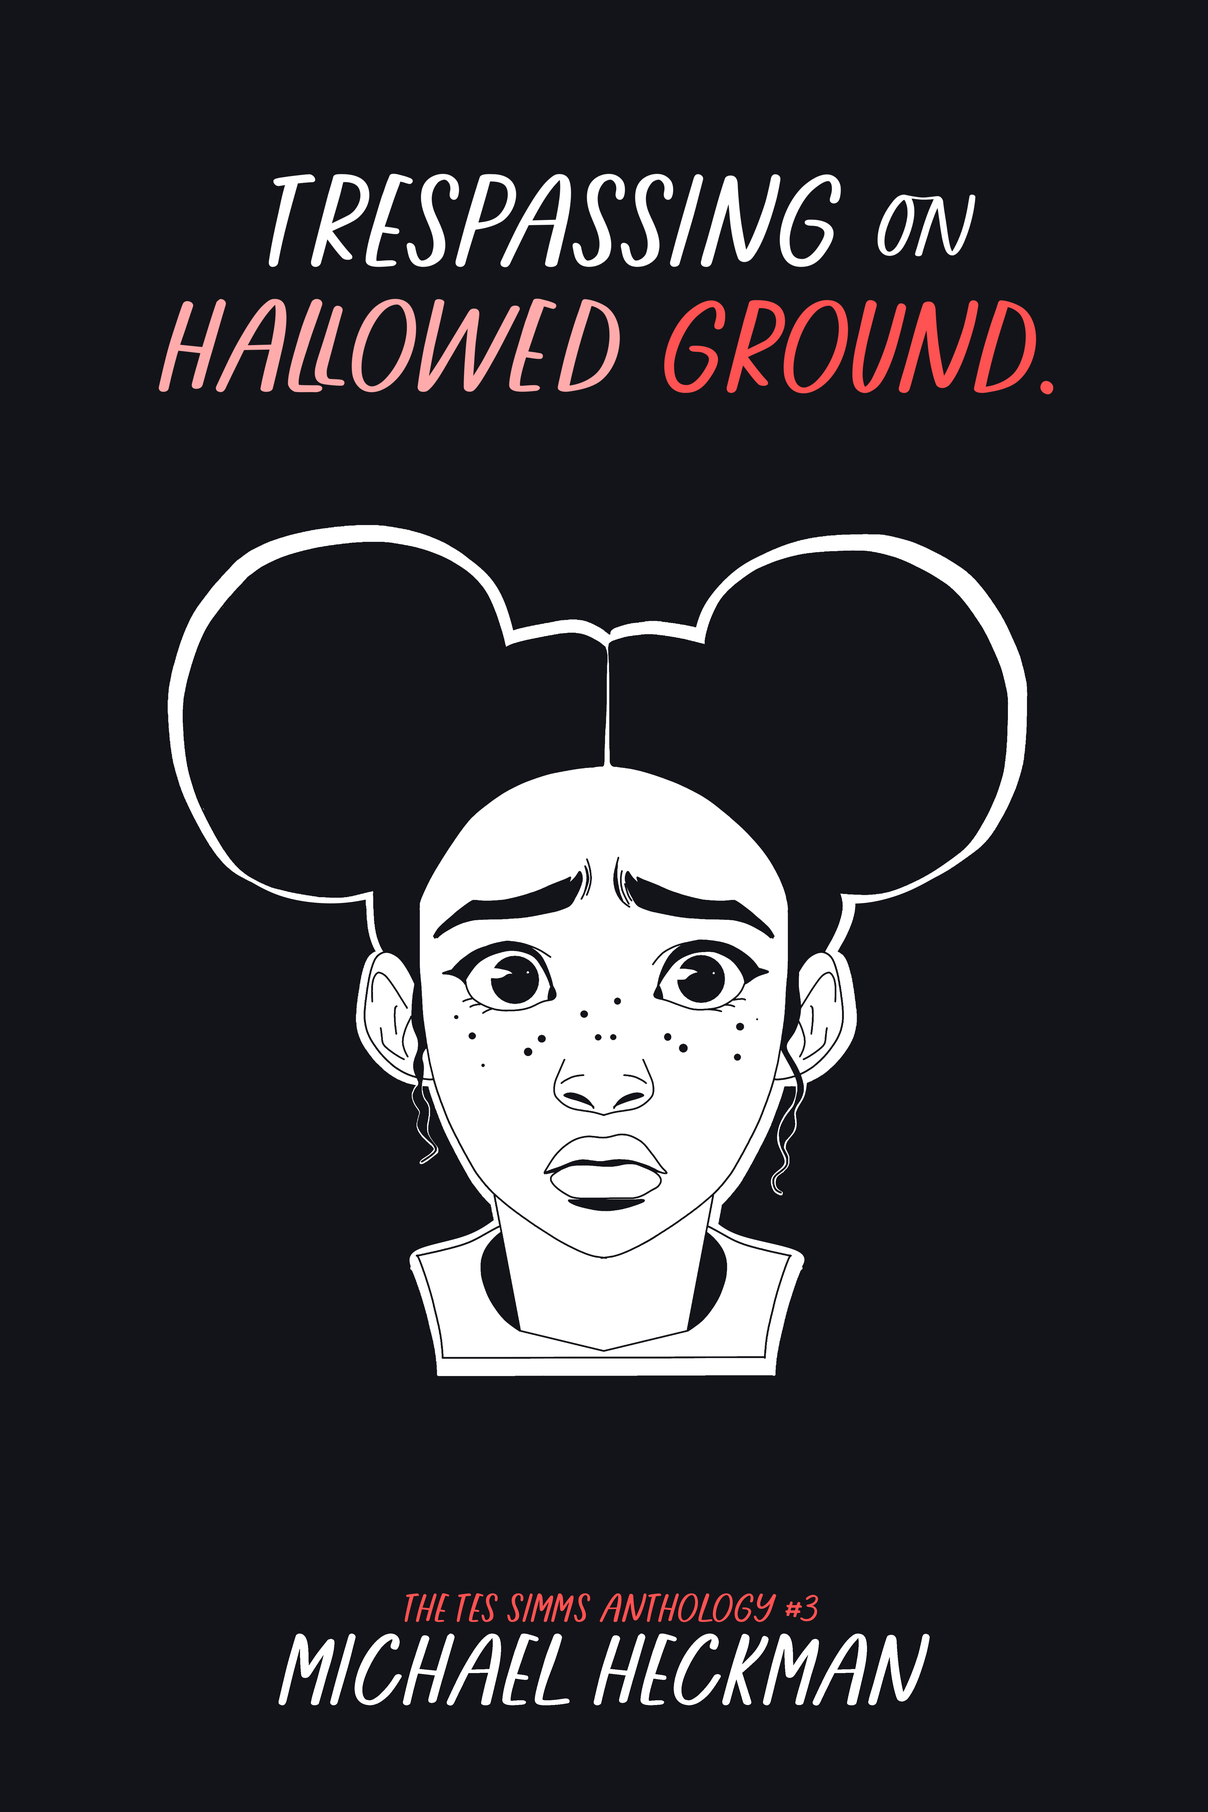
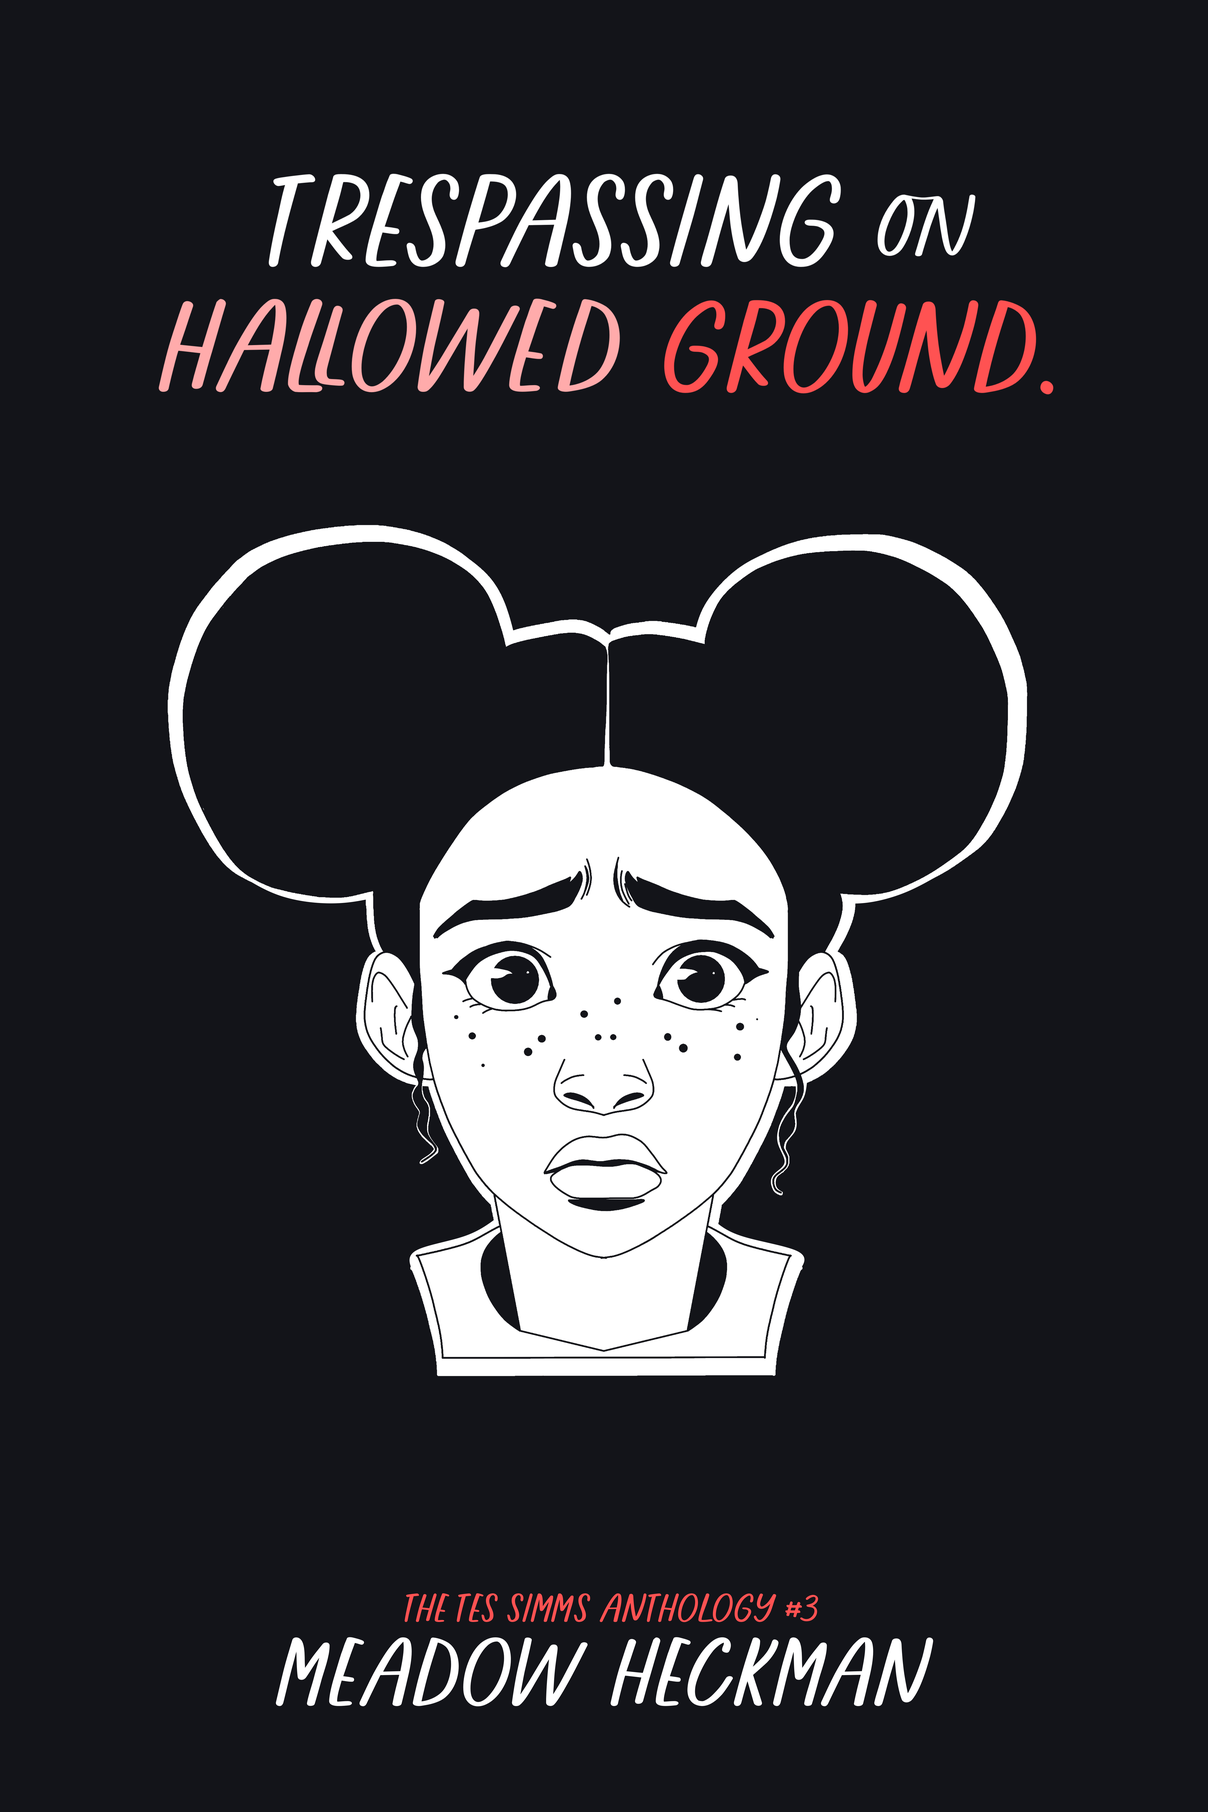
more meadow shift

Changed region(s): [[0.2188, 0.9062, 0.7812, 0.9375]]

diff --git a/index.html b/index.html
@@ -83,35 +83,35 @@
                 <a class="book-clickable" href="luna">
                     <div class="book unread">
                         <div class="cover">
-                            <img title="Luna on the Run" src="https://msheckman.com/book-cover/luna-on-the-run.png">
+                            <img title="Luna on the Run" src="https://msheckman.com/book-cover/luna-on-the-run.jpg">
                         </div>
                     </div>
                 </a>
                 <a class="book-clickable" href="the-blood-moon-pirate">
                     <div class="book new">
                         <div class="cover">
-                            <img title="The Blood Moon Pirate" src="https://msheckman.com/book-cover/the-blood-moon-pirate.png">
+                            <img title="The Blood Moon Pirate" src="https://msheckman.com/book-cover/the-blood-moon-pirate.jpg">
                         </div>
                     </div>
                 </a>
                 <a class="book-clickable" href="orion-and-the-clockwork/">
                     <div class="book new">
                         <div class="cover">
-                            <img title="Orion and the Clockwork" src="https://msheckman.com/book-cover/orion-and-the-clockwork.png">
+                            <img title="Orion and the Clockwork" src="https://msheckman.com/book-cover/orion-and-the-clockwork.jpg">
                         </div>
                     </div>
                 </a>
                 <a class="book-clickable" href="the-steam-war">
                     <div class="book read">
                         <div class="cover">
-                            <img title="The Steam War" src="https://msheckman.com/book-cover/the-steam-war.png">
+                            <img title="The Steam War" src="https://msheckman.com/book-cover/the-steam-war.jpg">
                         </div>
                     </div>
                 </a>
                 <a class="book-clickable" href="the-brass-dove">
                     <div class="book new">
                         <div class="cover">
-                            <img title="The Brass Dove" src="https://msheckman.com/book-cover/the-brass-dove.png">
+                            <img title="The Brass Dove" src="https://msheckman.com/book-cover/the-brass-dove.jpg">
                         </div>
                     </div>
                 </a>
@@ -151,18 +151,18 @@
     </div>
 
     <div class="strips">
-        <div class="light-strip">
+        <div class="dark-strip">
             <h1>Portfolio</h1>
             <p>Visit my portfolio of projects, including coding projects, books, and more.</p>
             <img src="index/portfolio.png" alt="Portfolio Picture">
             <button type="button" onclick="window.location='portfolio'">VIEW</button>
         </div>
-        <div class="dark-strip">
+        <!-- <div class="dark-strip">
             <h1>Résumé</h1>
             <p>Read or download my résumé.</p>
-            <img src="index/good me.webp" alt="Resume Picture">
+            <img src="index/pfp square.png" alt="Resume Picture">
             <button type="button" onclick="window.location='resume'">VIEW</button>
-        </div>
+        </div> -->
         <div class="light-strip">
             <h1>Blog</h1>
             <p>Visit the blog, where you can stay updated on projects of all sorts.</p>

diff --git a/books/index.html b/books/index.html
@@ -67,11 +67,11 @@
             <div class="collection-steam" id="steam-war">
                 <h3 class="collection-header">THE STEAM WAR SERIES</h3>
                 <div class="book steam">
-                    <a rel="noopener" href="../the-steam-war"><img src="https://msheckman.com/book-cover/the-steam-war.png" alt="The Steam War" class="cover display-a"></a>
+                    <a rel="noopener" href="../the-steam-war"><img src="https://msheckman.com/book-cover/the-steam-war.jpg" alt="The Steam War" class="cover display-a"></a>
                     <img src="drop-shadow.png"alt="Book cover drop shadow" class="shadow">
                 </div>
                 <div class="book dove">
-                    <a rel="noopener" href="../the-brass-dove"><img src="https://msheckman.com/book-cover/the-brass-dove.png" alt="The Brass Dove" class="cover display-a"></a>
+                    <a rel="noopener" href="../the-brass-dove"><img src="https://msheckman.com/book-cover/the-brass-dove.jpg" alt="The Brass Dove" class="cover display-a"></a>
                     <img src="drop-shadow.png"alt="Book cover drop shadow" class="shadow">
                 </div>
                 <div class="book renegades">
@@ -83,15 +83,15 @@
             <div class="collection-vigilantes" id="vigilantes">
                 <h3 class="collection-header">The Carmsborough Vigilantes Series</h3>
                 <div class="book luna">
-                    <a rel="noopener" href="../luna"><img src="https://msheckman.com/book-cover/luna-on-the-run.png" alt="Luna on the Run" class="cover display-a"></a>
+                    <a rel="noopener" href="../luna"><img src="https://msheckman.com/book-cover/luna-on-the-run.jpg" alt="Luna on the Run" class="cover display-a"></a>
                     <img src="drop-shadow.png"alt="Book cover drop shadow" class="shadow">
                 </div>
                 <div class="book pirate">
-                    <a rel="noopener" href="../the-blood-moon-pirate"><img src="https://msheckman.com/book-cover/the-blood-moon-pirate.png" alt="The Blood Moon Pirate" class="cover display-a"></a>
+                    <a rel="noopener" href="../the-blood-moon-pirate"><img src="https://msheckman.com/book-cover/the-blood-moon-pirate.jpg" alt="The Blood Moon Pirate" class="cover display-a"></a>
                     <img src="drop-shadow.png"alt="Book cover drop shadow" class="shadow">
                 </div>
                 <div class="book orion">
-                    <a rel="noopener" href="../orion-and-the-clockwork"><img src="https://msheckman.com/book-cover/orion-and-the-clockwork.png" alt="Orion and the Clockwork" class="cover display-a"></a>
+                    <a rel="noopener" href="../orion-and-the-clockwork"><img src="https://msheckman.com/book-cover/orion-and-the-clockwork.jpg" alt="Orion and the Clockwork" class="cover display-a"></a>
                     <img src="drop-shadow.png"alt="Book cover drop shadow" class="shadow">
                 </div>
                 <div class="book apprentice">

diff --git a/the-carmsborough-vigilantes/index.html b/the-carmsborough-vigilantes/index.html
@@ -73,15 +73,15 @@
                 <a href="#" class="chronological" onclick="reorder('chronological')"><i class="fa fa-th-large" aria-hidden="true"></i> Chronological Order</a>
                 <div class="bookviewer">
                     <div class="book luna" id="luna">
-                        <a rel="noopener" href="../luna"><img src="https://msheckman.com/book-cover/luna-on-the-run.png" alt="Luna on the Run" class="cover display-a"></a>
+                        <a rel="noopener" href="../luna"><img src="https://msheckman.com/book-cover/luna-on-the-run.jpg" alt="Luna on the Run" class="cover display-a"></a>
                         <p class="blurb">"Beggars can't be choosers, But I'm done begging." Follow the story of Luna, a homeless teen with skewed morals, as she and her mechanical cat Freckles struggle to live a normal, problem-free life that keeps getting interrupted by bad men with bad plans. Read #lunaontherun completely free online.</p>
                     </div>
                     <div class="book pirate" id="pirate">
-                        <a rel="noopener" href="../the-blood-moon-pirate"><img src="https://msheckman.com/book-cover/the-blood-moon-pirate.png" alt="The Blood Moon Pirate" class="cover display-a"></a>
+                        <a rel="noopener" href="../the-blood-moon-pirate"><img src="https://msheckman.com/book-cover/the-blood-moon-pirate.jpg" alt="The Blood Moon Pirate" class="cover display-a"></a>
                         <p class="blurb">Sometime after the events of Luna on the Run, Luna and her mechanical cat Freckles have taken up the role of vigilantism in Carmsborough, looking to rid it of the mob boss Bijabers' influence. Despite her noble cause, her unconventional ways and distressed morals bring her many opponents, like S6, a secret American government organization, and the other vigilante duo of Carmsborough: Orion and the Clockwork. Now Luna must race the clock and remain anonymous while cleaning up the streets of Carmsborough under her threatening new alias: The Blood Moon Pirate.</p>
                     </div>
                     <div class="book orion" id="orion">
-                        <a rel="noopener" href="../orion-and-the-clockwork"><img src="https://msheckman.com/book-cover/orion-and-the-clockwork.png" alt="Orion and the Clockwork" class="cover display-a"></a>
+                        <a rel="noopener" href="../orion-and-the-clockwork"><img src="https://msheckman.com/book-cover/orion-and-the-clockwork.jpg" alt="Orion and the Clockwork" class="cover display-a"></a>
                         <p class="blurb">Orion has been chosen to be protected by the Clockwork, a seemingly indestructible metal golem designed to guard him at all costs.
                             <br/><br/>
                             He did not sign up for this.

diff --git a/orion-and-the-clockwork/index.html b/orion-and-the-clockwork/index.html
@@ -76,7 +76,7 @@
 
         <div class="strips">
             <div class="book">
-                <img id="book" src="https://msheckman.com/book-cover/orion-and-the-clockwork.png" alt="Orion and the Clockwork">
+                <img id="book" src="https://msheckman.com/book-cover/orion-and-the-clockwork.jpg" alt="Orion and the Clockwork">
                 <p id="book-description-1">Orion has been chosen to be protected by the Clockwork, a seemingly indestructible metal golem designed to guard him at all costs. </p>
                 <p id="book-description-2">He did not sign up for this.</p>
                 <p id="book-description-3">Add to the fact that a man named Syndra has taken over the country and wants to kill him and steal the Clockwork, and his relationship with Rami, a boy from the countryside, is cut abruptly short because of it, and Orion finds himself wishing the mysterious machine had never chosen him to begin with.</p>
@@ -89,8 +89,8 @@
             <div class="about-the-author">
                 <h1 id="about-title">About the Author</h1>
                 <div class="underline"></div>
-                <p id="about">Meadow has always had a love for writing that stems from writing a short story about turtles on his family computer in second grade. From there, he never stopped writing, and wrote his first ten-thousand-word book in the third grade, igniting his passion for storytelling.<br/><br/>Now, the only thing stopping Meadow from writing more is his schedule. Ideas like <em>Orion and the Clockwork</em> and the <em>Steam War</em> series keep him up at night, plotting his creative path forward.</p>
-                <img id="about-the-author" src="me.jpg" alt="Me">
+                <p id="about">Meadow has always had a love for writing that stems from writing a short story about turtles on her family computer in second grade. From there, she never stopped writing, and wrote her first ten-thousand-word book in the third grade, igniting her passion for storytelling.<br/><br/>Now, the only thing stopping Meadow from writing more is her schedule. Ideas like <em>Orion and the Clockwork</em> and the <em>Steam War</em> series keep her up at night, plotting her creative path forward.</p>
+                <img id="about-the-author" src="../index/pfp square.png" alt="Me">
             </div>
             <div class="farm">
                 

diff --git a/the-brass-dove/index.html b/the-brass-dove/index.html
@@ -66,7 +66,7 @@
 
         <div class="strips">
             <div class="book">
-                <img id="book" src="https://msheckman.com/book-cover/the-brass-dove.png" alt="The Brass Dove">
+                <img id="book" src="https://msheckman.com/book-cover/the-brass-dove.jpg" alt="The Brass Dove">
                 <h1 id="available-now">Meadow Heckman's <br /><p class="emphasis">THE BRASS DOVE</p></h1>
                 <p id="secrets">"War is not a man's sport. War is no sport at all."</p>
                 <div class="book-socials">
@@ -82,8 +82,8 @@
             <div class="about-the-author">
                 <h1 id="about-title">About the Author</h1>
                 <div class="underline"></div>
-                <p id="about">Meadow has always had a love for writing that stems from writing a short story about turtles on his family computer in second grade. From there, he never stopped writing, and wrote his first ten-thousand-word book in the third grade, igniting his passion for storytelling.<br/><br/>Now, the only thing stopping Meadow from writing more is his schedule. Ideas like <em>Luna on the Run</em> and <em>The Brass Dove</em> keep him up at night, plotting his creative path forward.</p>
-                <img id="about-the-author" src="me.jpg" alt="Me">
+                <p id="about">Meadow has always had a love for writing that stems from writing a short story about turtles on her family computer in second grade. From there, she never stopped writing, and wrote her first ten-thousand-word book in the third grade, igniting her passion for storytelling.<br/><br/>Now, the only thing stopping Meadow from writing more is her schedule. Ideas like <em>Orion and the Clockwork</em> and the <em>Steam War</em> series keep her up at night, plotting her creative path forward.</p>
+                <img id="about-the-author" src="../index/pfp square.png" alt="Me">
             </div>
             <div class="reviews">
                 <h1 id="reviews">Praise for <em>The Steam War</em></h1>

diff --git a/the-steam-war-series/index.html b/the-steam-war-series/index.html
@@ -68,11 +68,11 @@
                 <h3 class="collection-header">THE STEAM WAR SERIES</h3>
                 <div class="bookviewer">
                     <div class="book steam">
-                        <a rel="noopener" href="../the-steam-war"><img src="https://msheckman.com/book-cover/the-steam-war.png" alt="The Steam War" class="cover display-a"></a>
+                        <a rel="noopener" href="../the-steam-war"><img src="https://msheckman.com/book-cover/the-steam-war.jpg" alt="The Steam War" class="cover display-a"></a>
                         <p class="blurb">"Secrets don't keep once they're airborne."<br/><br/>On board the <em>Globetrotter</em>, a steampunk flight school for aspiring airship crews, Cog and her closest friends gear up for their third year of classes. But when a mysterious transfer student threatens to rock the boat and expose Cog’s hazy past, a global war looms over President Jimmy Carter’s historic press conference, and a jealous love triangle endangers her friendships, their school year promises to be anything but normal.</p>
                     </div>
                     <div class="book dove">
-                        <a rel="noopener" href="../the-brass-dove"><img src="https://msheckman.com/book-cover/the-brass-dove.png" alt="The Brass Dove" class="cover display-a"></a>
+                        <a rel="noopener" href="../the-brass-dove"><img src="https://msheckman.com/book-cover/the-brass-dove.jpg" alt="The Brass Dove" class="cover display-a"></a>
                         <p class="blurb">"War is not a man's sport. War is no sport at all."<br/><br/>After a surprise reunion with her former roommate, Cog and her crew follow the directions of Agent Ike, who urges them to join the war effort as a scout ship. Tension starts to boil between the friendgroup, however, when everyone wants something different, and Cog can't figure out who she is or what she's supposed to be.</p>
                     </div>
                     <div class="book finale">

diff --git a/the-steam-war/index.html b/the-steam-war/index.html
@@ -67,7 +67,7 @@
 
         <div class="strips">
             <div class="book">
-                <img id="book" src="https://msheckman.com/book-cover/the-steam-war.png" alt="The Steam War">
+                <img id="book" src="https://msheckman.com/book-cover/the-steam-war.jpg" alt="The Steam War">
                 <h1 id="available-now">Meadow Heckman's <br /><p class="emphasis">THE STEAM WAR,</p>Available Now</h1>
                 <p id="secrets">"Secrets don't keep once they're airborne."</p>
                 <div class="book-socials">
@@ -83,8 +83,8 @@
             <div class="about-the-author">
                 <h1 id="about-title">About the Author</h1>
                 <div class="underline"></div>
-                <p id="about">Meadow has always had a love for writing that stems from writing a short story about turtles on his family computer in second grade. From there, he never stopped writing, and wrote his first ten-thousand-word book in the third grade, igniting his passion for storytelling.<br/><br/>Now, the only thing stopping Meadow from writing more is his schedule. Ideas like <em>Luna on the Run</em> and <em>The Brass Dove</em> keep him up at night, plotting his creative path forward.</p>
-                <img id="about-the-author" src="good me.webp" alt="Me">
+                <p id="about">Meadow has always had a love for writing that stems from writing a short story about turtles on her family computer in second grade. From there, she never stopped writing, and wrote her first ten-thousand-word book in the third grade, igniting her passion for storytelling.<br/><br/>Now, the only thing stopping Meadow from writing more is her schedule. Ideas like <em>Orion and the Clockwork</em> and the <em>Steam War</em> series keep her up at night, plotting her creative path forward.</p>
+                <img id="about-the-author" src="../index/pfp square.png" alt="Me">
             </div>
             <div class="reviews">
                 <h1 id="reviews">Reviews</h1>

diff --git a/the-blood-moon-pirate/index.html b/the-blood-moon-pirate/index.html
@@ -85,7 +85,7 @@
                     <div class="front">
                         
                         <div id="f1" class="front-content">
-                            <img class="reader-cover" src="https://msheckman.com/book-cover/the-blood-moon-pirate.png" alt="Front Cover">
+                            <img class="reader-cover" src="https://msheckman.com/book-cover/the-blood-moon-pirate.jpg" alt="Front Cover">
                         </div>
                     </div>
                     <div class="back">
@@ -253,7 +253,7 @@
             
         </div>
         <div class="about-strip">
-            <img class="cover" src="https://msheckman.com/book-cover/the-blood-moon-pirate.png" alt="The Blood Moon Pirate">
+            <img class="cover" src="https://msheckman.com/book-cover/the-blood-moon-pirate.jpg" alt="The Blood Moon Pirate">
             <h1 id="about">The Blood Moon Pirate</h1>
             <p id="details">Sometime after the events of <em>Luna on the Run</em>, Luna and her mechanical cat Freckles have taken up the role of vigilantism in Carmsborough, looking to rid it of the mob boss Bijabers' influence. Despite her noble cause, her unconventional ways and distressed morals bring her many opponents, like S6, a secret American government organization, and the other vigilante duo of Carmsborough: Orion and the Clockwork. Now Luna must race the clock and remain anonymous while cleaning up the streets of Carmsborough under her threatening new alias: The Blood Moon Pirate.</p>
             <div class="about-button">

diff --git a/luna/index.html b/luna/index.html
@@ -84,7 +84,7 @@
                         <select id="chapter-cover" onchange="changeChapter()" name="Front Cover" title="Front Cover">
                         </select>
                         <div id="f1" class="front-content">
-                            <img src="https://msheckman.com/book-cover/luna-on-the-run.png" alt="Front Cover">
+                            <img src="https://msheckman.com/book-cover/luna-on-the-run.jpg" alt="Front Cover">
                         </div>
                     </div>
                     <div class="back">
@@ -242,7 +242,7 @@
         </div>
 
         <div class="sequel-strip">
-            <img class="cover" src="https://msheckman.com/book-cover/the-blood-moon-pirate.png" alt="The Blood Moon Pirate">
+            <img class="cover" src="https://msheckman.com/book-cover/the-blood-moon-pirate.jpg" alt="The Blood Moon Pirate">
             <h1 id="about-sequel">The Short-Story Sequel</h1>
             <p id="details">Continue with Luna and Freckles' story in the ten-part sequel story, <em>The Blood Moon Pirate</em>, with a new chapter releasing at the end of every month.</p>
             <div class="about-button-sequel">
